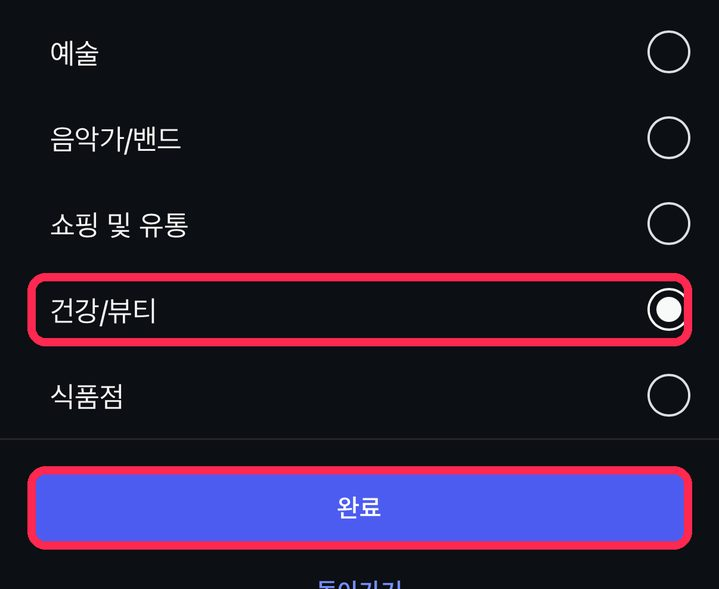
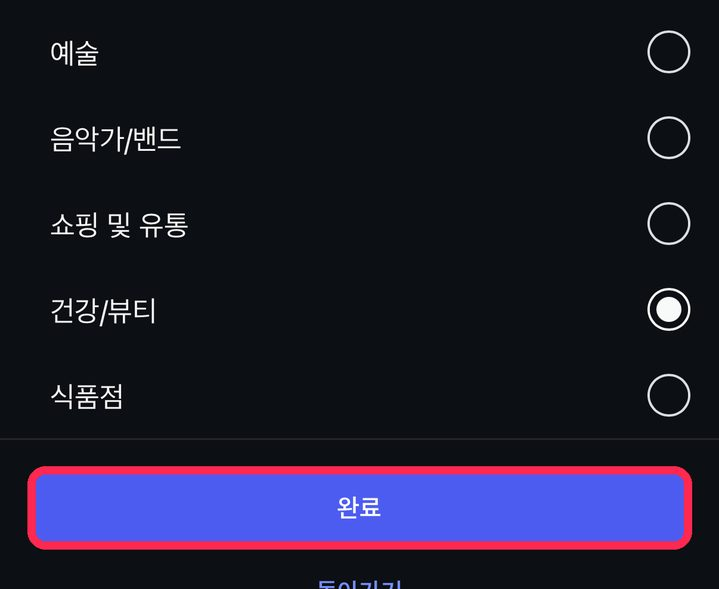
가이드: 카테고리는 아무거나
Claude-Session: https://claude.ai/code/session_019HisJQXF8pQgBJe3A5Xv7W

Changed region(s): [[0.0306, 0.4584, 0.9791, 0.6112]]

diff --git a/guide.html b/guide.html
@@ -63,8 +63,8 @@ details li{font-size:14px;line-height:1.6;color:#7c2d12;margin:3px 0}
 <img src="/guide/06.jpg" alt="" loading="lazy"><details><summary>안 되면?</summary><ul><li>"앱이 비활성 상태" / "사용할 수 없는 기능"이 뜨면 → 1단계(초대 수락)가 안 된 거예요. 1단계부터 다시 해주세요.</li></ul></details></div>
 <details class="cre"><summary><span class="ct">⚠ 잠깐! 개인 계정이면</span><b>여기서 화면 5개가 더 나와요</b><small>크리에이터 계정으로 바꾸는 화면이에요. 안 나오면 그냥 넘어가세요.</small><span class="pill">눌러서 보기 ▾</span></summary><div><div class="st"><div class="hd"><span class="n">6</span><div><b>'크리에이터' → '다음'</b></div></div>
 <img src="/guide/07.jpg" alt="" loading="lazy"><details><summary>안 되면?</summary><ul><li>이 화면이 안 나오면 → 이미 크리에이터/비즈니스 계정이에요. 이 부분은 건너뛰세요.</li><li>실수로 "비즈니스"를 골라도 괜찮아요. 그대로 진행하면 돼요.</li></ul></details></div><div class="st"><div class="hd"><span class="n">7</span><div><b>'다음'</b></div></div>
-<img src="/guide/08.jpg" alt="" loading="lazy"></div><div class="st"><div class="hd"><span class="n">8</span><div><b>'건강/뷰티' → '완료'</b></div></div>
-<img src="/guide/09.jpg" alt="" loading="lazy"><details><summary>안 되면?</summary><ul><li>목록에 안 보이면 → 위쪽 검색창에 "건강" 입력. 다른 카테고리를 골라도 연결엔 문제없어요.</li></ul></details></div><div class="st"><div class="hd"><span class="n">9</span><div><b>'계속하기'</b><small>비공개 계정은 공개로 바뀌어요</small></div></div>
+<img src="/guide/08.jpg" alt="" loading="lazy"></div><div class="st"><div class="hd"><span class="n">8</span><div><b>카테고리 아무거나 → '완료'</b><small>어떤 걸 골라도 상관없어요</small></div></div>
+<img src="/guide/09.jpg" alt="" loading="lazy"></div><div class="st"><div class="hd"><span class="n">9</span><div><b>'계속하기'</b><small>비공개 계정은 공개로 바뀌어요</small></div></div>
 <img src="/guide/10.jpg" alt="" loading="lazy"><details><summary>안 되면?</summary><ul><li>"취소"를 눌렀다면 → 카톡 ② 링크를 다시 누르면 처음부터 다시 나와요.</li></ul></details></div><div class="st"><div class="hd"><span class="n">10</span><div><b>'완료'</b><small>팔로워·게시물은 그대로예요</small></div></div>
 <img src="/guide/11.jpg" alt="" loading="lazy"></div></div><div class="cend">↑ 여기까지 개인 계정만 · 아래부터는 모두 해요</div></details>
 <div class="st"><div class="hd"><span class="n">11</span><div><b>내 아이디 버튼 누르기</b><small>다른 아이디면 아래 '계정 전환'</small></div></div>
